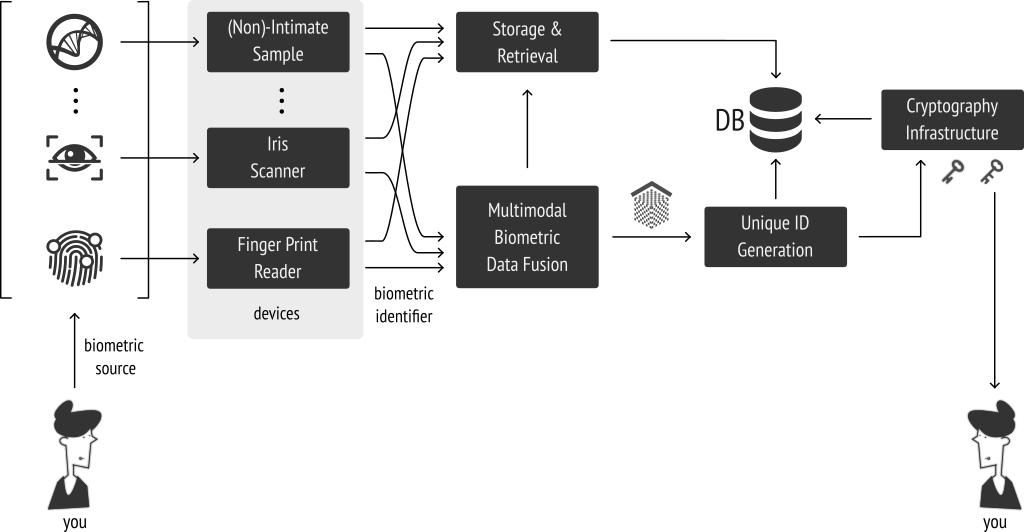
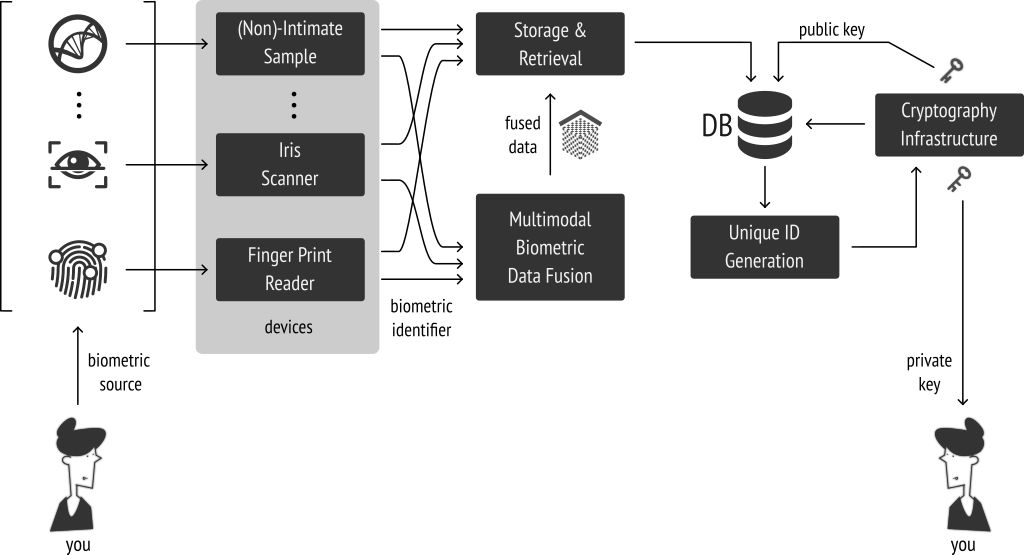
added adam smith quote; edited illustrations necessary

diff --git a/content/category/activism/2-attacks/unique-id.html b/content/category/activism/2-attacks/unique-id.html
@@ -751,13 +751,18 @@
 				    			</ol>
 				    		</p>
 
+		  				<figure>
+					  	  	<img src="../../../../content/resource/illustrations/uniqueid/technology_overview.png" alt="technology-overview">
+					  	  	<figcaption>Technology Overview as depicted <u>once</u> in uidai website - redrawn in my style :)</figcaption>
+					  	</figure>
+
 				    		<h4>PERSONAL THOUGHT:</h4>
 				    		<p>
 							Being an individual who have for atleast made some contribution to science through open and peer production methods, as much as possible,
-				    			without compromising the philosophies and principles of openness and sharing -- i can see a group of people who firmly believe in technology
-				    			and extrapolate their skill and potential to use technology as silver bullets for all problems they encounter with. However, in reality
-				    			neither any social problems or even the economic problems can be solved in such way, and always history of technology has its limits
-				    			at that point of time, from which innovation and logics in social, economic and political sciences would involve and help realize the
+				    			without compromising the philosophies and principles of openness and sharing -- i could only see a group of people who firmly believe in
+				    			technological determinism to extrapolate their skill and potential to use technology as silver bullets for all problems they encounter with.
+				    			However, in reality neither any social problems nor the economic problems can be solved in such way, and always history of technology has its
+				    			limits at that point of time, from which innovations in social, economic and political sciences would involve and help realize the
 				    			solution practically. As far as i know, such blind belief is just equivalent to follow a religion.
 				    		</p>
 		  			</div>
@@ -798,12 +803,16 @@
 		  		  </div>
 		  		</div>
 
-		    		<figure>
-			  	  	<img src="../../../../content/resource/illustrations/uniqueid/technology_overview.png" alt="technology-overview">
-			  	  	<figcaption>Technology Overview as depicted <u>once</u> in uidai website - redrawn in my style :)</figcaption>
-			  	</figure>
-		    		<br>
-		    		<br>
+		    		<blockquote>
+		    			The proposal of any new law or regulation of commerce which comes from this order, ought always to be listened to with great precaution,
+		    			and ought never to be adopted till after having been long and carefully examined, not only with the most scrupulous, but with the most
+		    			suspicious attention. It comes from an order of men, whose interest is never exactly the same with that of the public, who have generally
+		    			an interest to deceive and even to oppress the public, and who accordingly have, upon many occasions, both deceived and oppressed it.
+
+		    			<p data-type="attribution">
+		    				- Adam Smith
+		    			</p>
+		    		</blockquote>
 
 		    		<div class="accordion">
 		  		  <div class="accordion-section">
@@ -827,7 +836,7 @@
 
 		  				<figure>
 					  	  	<img src="../../../../content/resource/illustrations/uniqueid/biometrics-generic-asiknow.png" alt="biometrics-as-i-see">
-					  	  	<figcaption>A generic Biometric system for ID. as i understand</figcaption>
+					  	  	<figcaption>A generic - CENTRALIZED - Biometric system for ID. as i understand</figcaption>
 					  	</figure>
 
 				    		<p>
@@ -882,11 +891,14 @@
 		  					upon the ISP and Telcoms' imposed limitation. This again calls for huge investment in communication to attain maximal bandwidth and reliable connection. There
 		  					is no direct connection between UID and the user. There are lot of points in between them, which neither UIDAI nor the people can control. Furthermore, in India,
 		  					with only ~15% of people have been digitally connected, awareness of digital communication, affordability of communication, accessible and affordable power supply
-		  					infrastructures pose an unsurmountable challenge. It is so obvious, that not everybody can easily use UID based services. With the current state, only the people
-		  					priveleged to access internet, who could afford mobile phones and computers might use it. Even if rural population are facilitated in their locality - education,
-		  					awareness and travel involved in accessing the service becomes harder and harder and calls for further state expenditure - which could be alternatively used for
-		  					school education empowering with computers, and free software systems; spread internet through support and funding community networking systems; renewable energy
-		  					systems, etc...
+		  					infrastructures pose an unsurmountable challenge.
+		  				</p>
+
+		  				<p>
+		  					It is so obvious, that not everybody can easily use UID based services. With the current state, only the people priveleged to access internet, who could afford
+		  					mobile phones and computers might use it. Even if rural population are facilitated in their locality - education, awareness and travel involved in accessing the
+		  					service becomes harder and harder and calls for further state expenditure - which could be alternatively used for school education empowering with computers,
+		  					and free software systems; spread internet through support and funding community networking systems; renewable energy systems, etc...
 		  				</p>
 
 		  				<h4>Privacy issues in Biometrics</h4>
@@ -1209,19 +1221,19 @@
 		  					Even with the best of intentions, nobody cannot claim that the system will remain completely secure for ever. Centralization inherenly has its risk of
 		  					failure. At the same time nobody can deny the fact of potential powers of numbering people. Once numbered, there are innovative number
 		  					of ways which it can be used. A ethical system of rules cannot step itself aside from accountability, stating that it just helped in identification
-		  					and nothing more. Why is that ? It is very much equivalent in arguing that <b>"...i am not a participant in the war, but i am the manufacturer who
-							supplies fire arms for both the participants of war. I have done what i have to do for sustain my business and maximize my profit mechanism."</b> It is a
-		  					similar stand where UIDAI/Aadhaar stands now. It may provide a claimed "YES" or "NO", answer - but it cannot deny potential point of failures.
-		  					Where it is a differnce engine or a latest state of the technology - biometric database engine, technology cannot be blamed for it has never been good,
-		  					not been bad, not even neutral. It just works for whoever uses it. It is only humans and their "human factor" that neutralizes such ill and grave
-		  					effects.
+		  					and nothing more. Why is that ? It is very much equivalent in arguing that <b>"...i am not a participant in the war, but i am the manufacturer and firearm
+							supplier for the participants of war. I have done what is necessary for sustaining my business and maximizing my profits in the competetive world..."</b>
+		  					It is a similar stand where UIDAI/Aadhaar takes now. It may provide a claimed "YES" or "NO", answer - but it cannot deny potential point of failures.
+		  					Whether it is a punching machine that counts or a biometric database number crunching engine, technology cannot be blamed for it has never been good,
+		  					not been bad, not even neutral. It just works for whoever controls it. It is only humans and their "human factor" that neutralizes the ill and grave effects
+		  					that the orchestrator propagates.
 		  				</p>
 
 					  	<p>
-					  		The only possible solution for such criticism based on historical reasons, only to make the identification system completely transparent at all layers
-					  		and levels of operation, with complete decentralization. Else the UIDAI project is going to completely similar to such earlier programmes. If it going
-					  		to keep on taking a vangaurd approach, then it exactly represents a ticking time bomb which we ourselves have voluntarily planted, based on economic
-					  		coercion. It would be a miracle if the project does not creeps to other commidifying services, misuse etc...
+					  		The only possible solution for such criticism based on historical reasons, - only to make the identification system completely transparent at all layers
+					  		and levels of operation, with complete decentralization. Else the UIDAI project is going completely in similar directions as earlier ID programmes. If it is going
+					  		to keep on taking a vangaurd approach, then it exactly represents a ticking time bomb which we ourselves have voluntarily planted, as a result of economic
+					  		coercion pushed by public service agencies. It would be a miracle if the project does not creeps to other commidifying services, misuse etc...
 					  	</p>
 
 		  				<h4>Forced Social Accumulation:</h4>
@@ -1236,14 +1248,15 @@
 				    		</p>
 
 				    		<p>
-							<mark>It seems that only few factors are necessary to push people at such scales</mark>. The people has to be :
+							<mark>It seems that only few factors are necessary to push people at such scales</mark>.
 
 				    			<ol>
-				    				<li>under <u>constant</u> fear of war, national security threat, terrorism</li>
+				    				<li>keep people under <u>constant</u> fear of war, national security threat, terrorism</li>
 				    				<li><u>keep them super busy</u> with daily life and stay ignorant about broader things and systems</li>
-				    				<li>often mobilize coercive forces (may be police <u>brutality</u>) to show "who is the master around here ?"</li>
-				    				<li><u>stop</u> providing rightful and deserved <u>service if people do not comply</u></li>
+				    				<li>often mobilize coercive forces (may be police <u>brutality</u>, economic coercion) to show "who is the master around here ?"</li>
+				    				<li><u>stop</u> providing rightful and deserved <u>service if people do not comply</u></li> (economic coercion)
 				    				<li><u>never make them leave once they fall</u> prey for subjugation (trap)</li>
+				    				<li>call them anti-nationals and anti-technologists, luddites whoever criticizes</li>
 				    			</ol>
 				    		</p>
 
